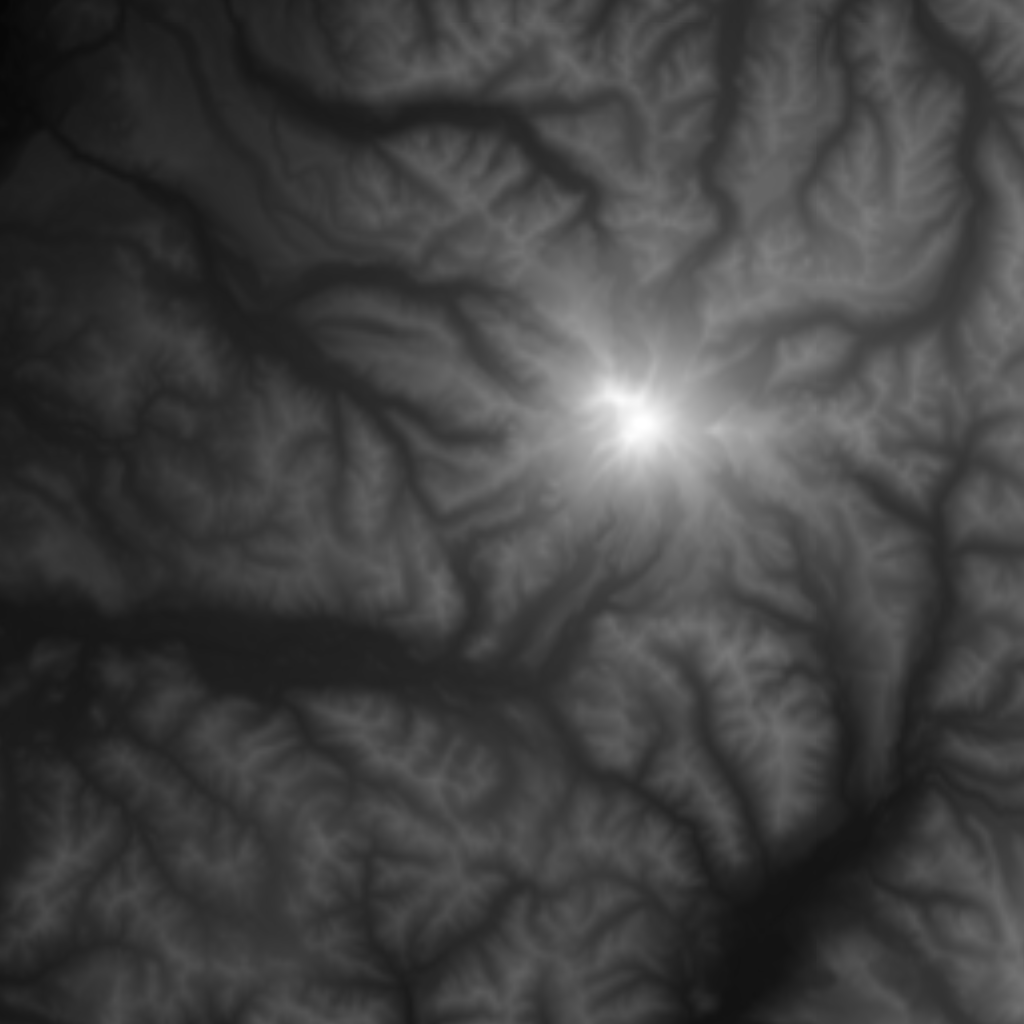
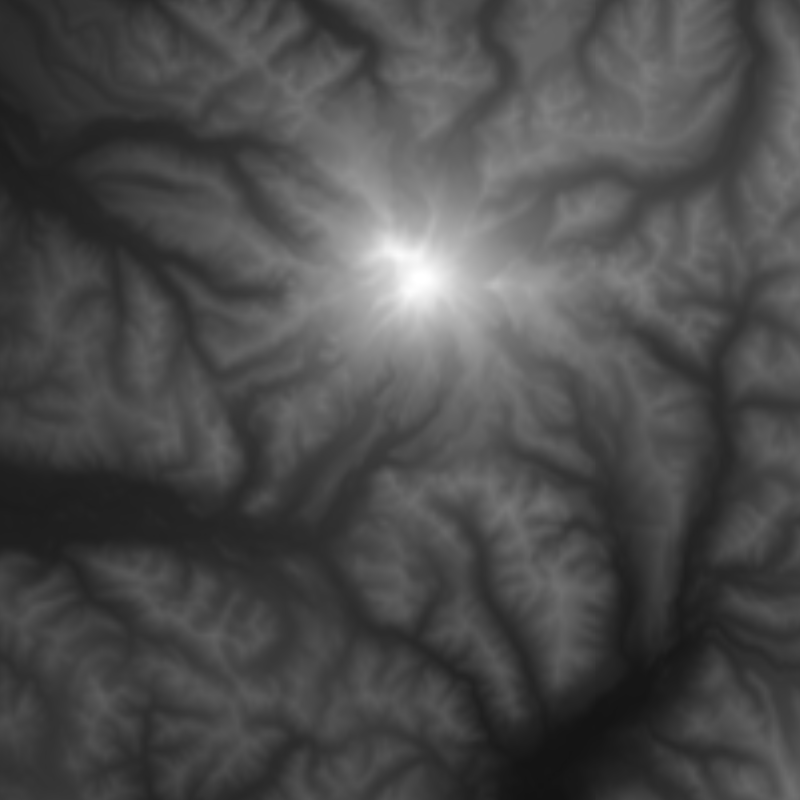
texture revise

diff --git a/src/index.js b/src/index.js
@@ -3,7 +3,7 @@ const OrbitControls = require('three-orbitcontrols')
 
 var camera, controls, scene, renderer
 var planeSize, plane
-var heightLimit = 4300
+var heightLimit = 4800
 var elevationScale = 0.15 * heightLimit
 var contourStep = 500
 
@@ -24,14 +24,14 @@ controls.enableDamping = true
 controls.dampingFactor = 0.25
 
 //add directional light
-var directionalLight = new THREE.DirectionalLight( 0xFFFFFF, 1 );
+var directionalLight = new THREE.DirectionalLight( 0xFFFFFF, 1.2 );
 directionalLight.position.set( 100, 350, 250 );
 directionalLight.castShadow = true;
 scene.add( directionalLight );
 
 //load image
 var img = new Image()
-img.src = "src/height_map.png"
+img.src = "src/height_map2.png"
 
 //generate terrain
 generateTerrain()
@@ -77,15 +77,20 @@ function getTexture(){
   var j = 0
   for (var i = 0; i < pix.length; i+=4) {
     var currentHeight = Math.round(heightLimit * pix[i] / 256)
-    var factor = Math.round(currentHeight / contourStep)
-    if (currentHeight % contourStep == 0 ){
-      data[j] = 0
-      data[j+1] = 0
-      data[j+2] = 0
-    }else{
-      data[j] = 22 + factor * 28
-      data[j+1] = 60 + factor * 24
-      data[j+2] = 128 - factor * 2
+    var factor = Math.floor(currentHeight / contourStep)
+
+    // assign contour color
+    data[j] = 42 + factor * 22
+    data[j+1] = 22 + factor * 21
+    data[j+2] = 128 - factor * 13
+    // assign contour line
+    for (var k = 0; k < 20; k++){
+      if (currentHeight % contourStep < k){
+        data[j] = 255
+        data[j+1] = 255
+        data[j+2] = 255
+        break
+      }
     }
     j += 3
   }
@@ -109,7 +114,7 @@ function generateTerrain(){
          plane.geometry.vertices[i].z = heightData[i] * elevationScale / img.width
     }
 
-    plane.geometry.computeVertexNormals();
+    plane.geometry.computeVertexNormals(true);
 
     plane.rotateX(THREE.Math.degToRad(-90))
     scene.add(plane);
